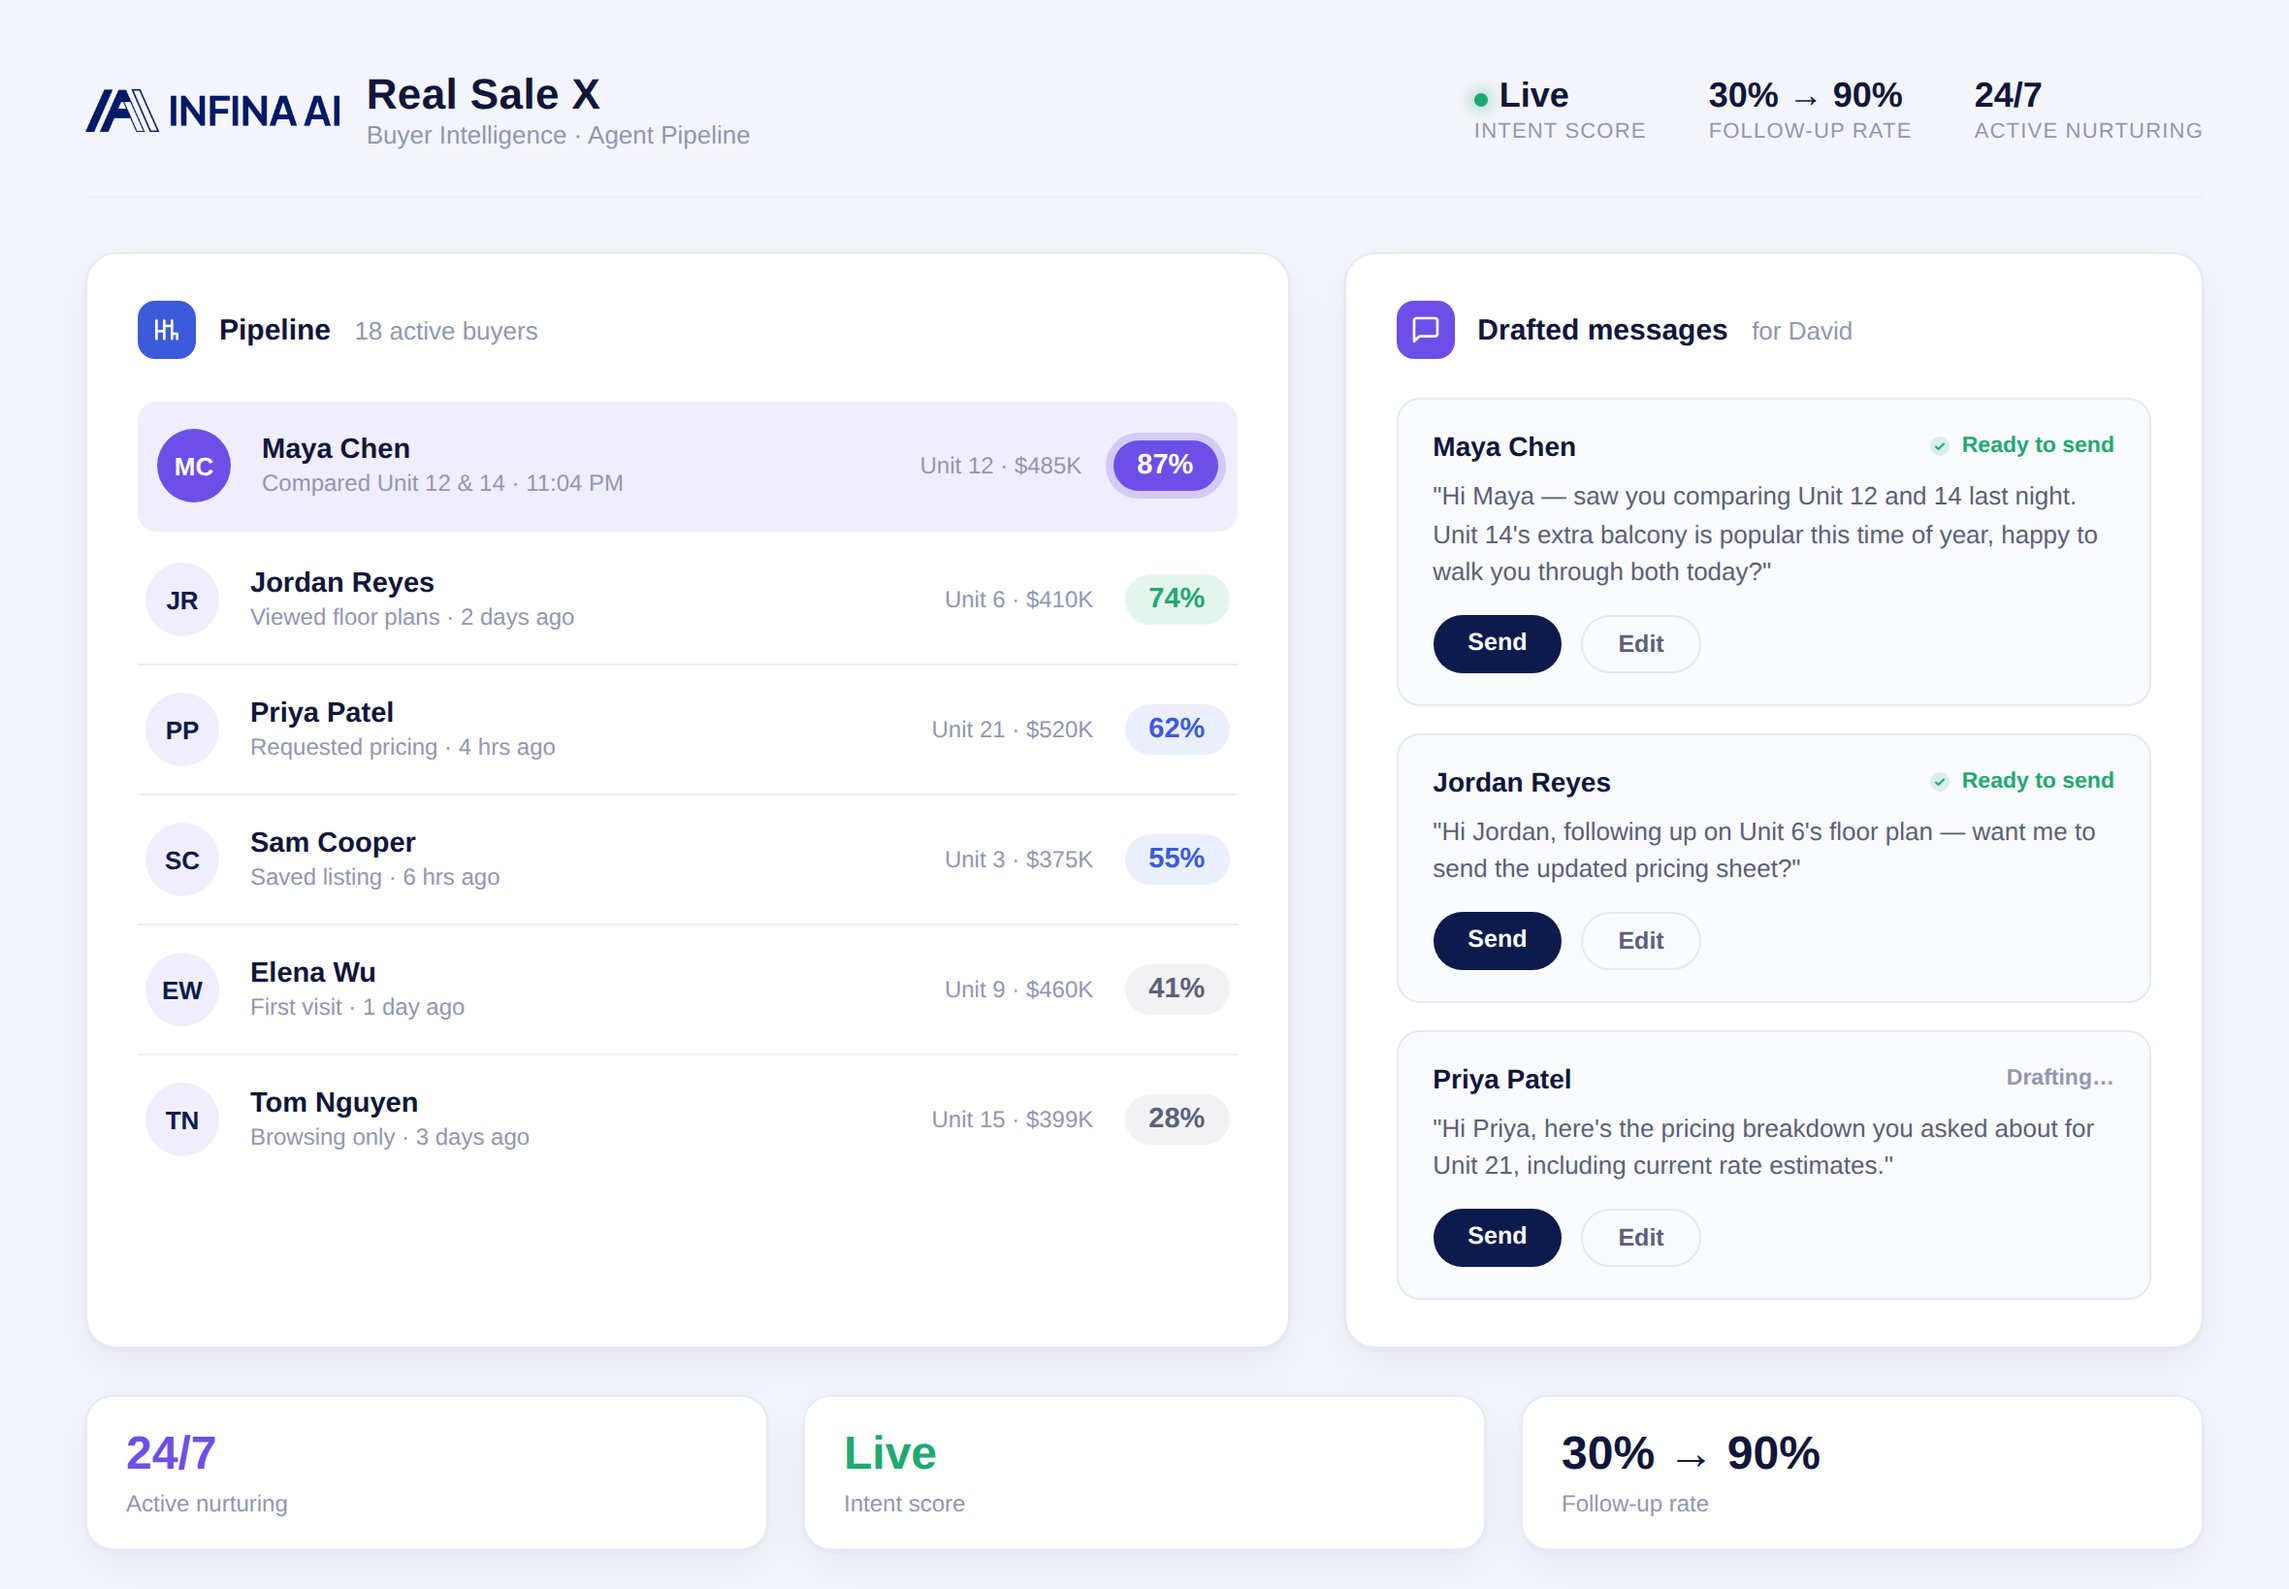
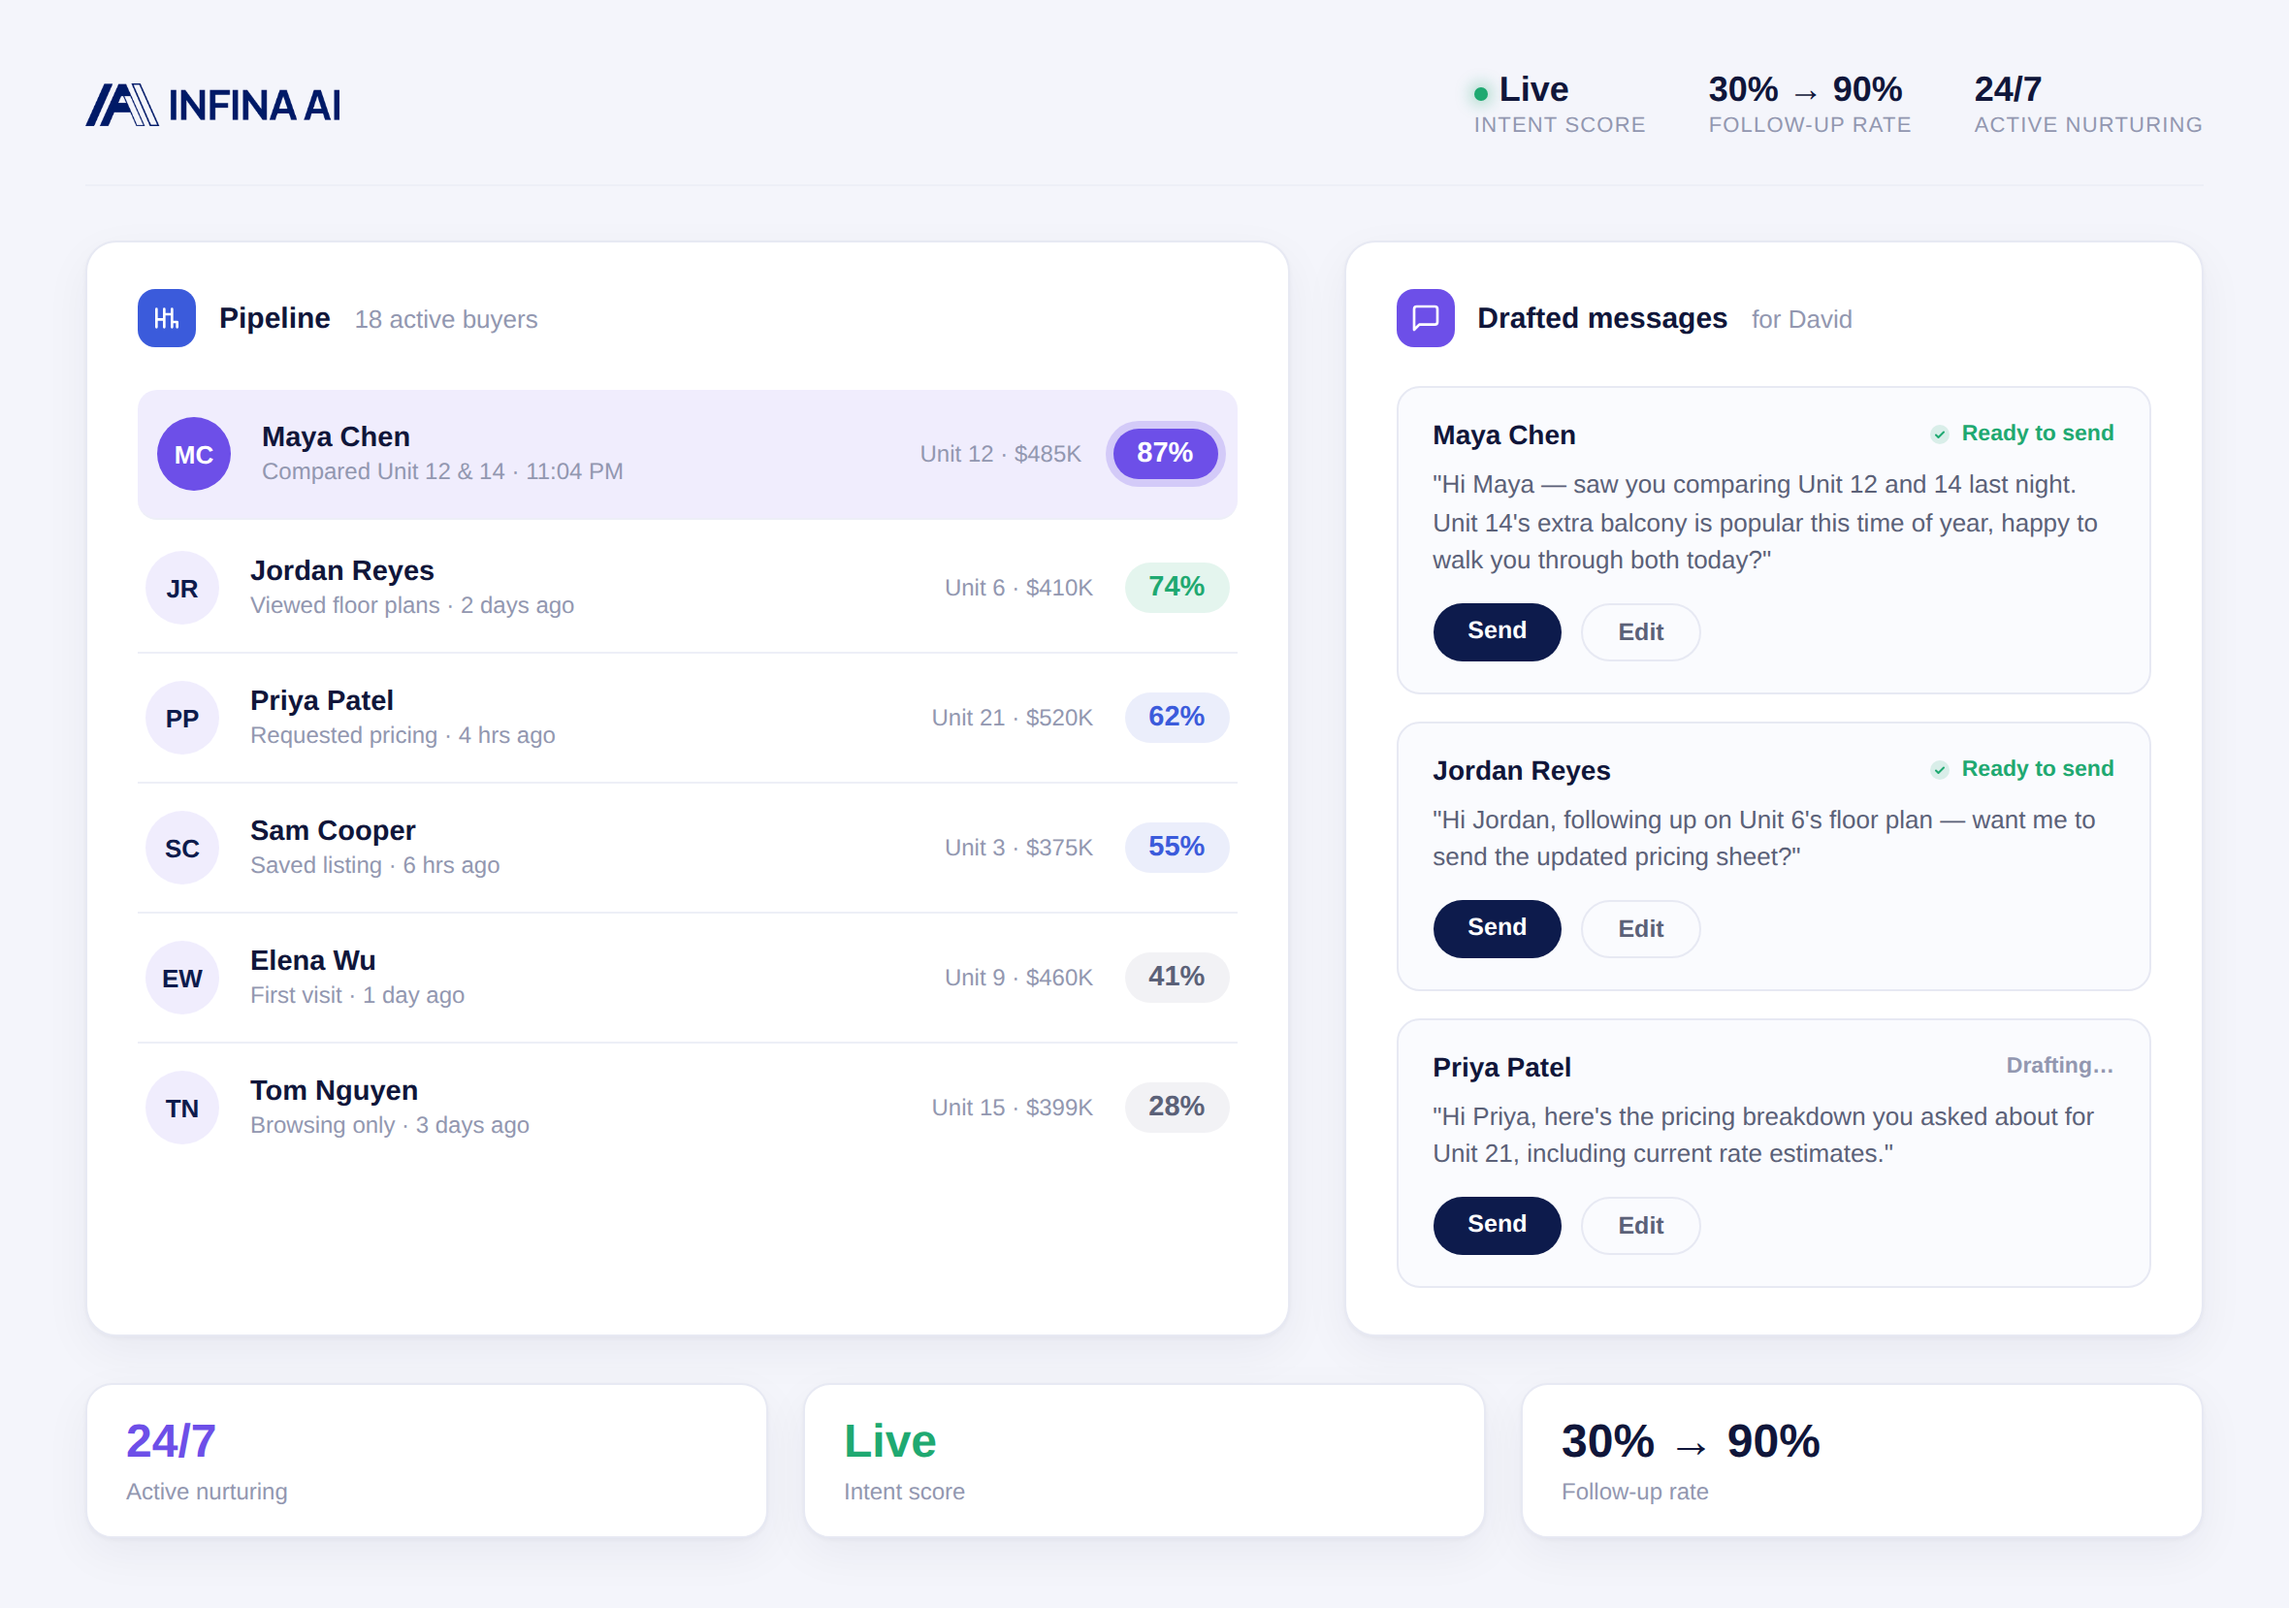
dashboard mockup: remove 'Real Sale X / Buyer Intelligence · Agent Pipeline' from topbar (keep INFINA AI); re-capture agent images

diff --git a/realsalex-mockups/dashboard.html b/realsalex-mockups/dashboard.html
@@ -266,10 +266,6 @@
   <div class="topbar">
     <div class="brand">
[1 lines of base64/hex data omitted]
-      <div>
-        <div class="brand-name">Real Sale X</div>
-        <div class="brand-sub">Buyer Intelligence · Agent Pipeline</div>
-      </div>
     </div>
     <div class="topbar-right">
       <div class="stat-mini"><div class="val"><span class="live-dot"></span>Live</div><div class="lbl">Intent Score</div></div>
